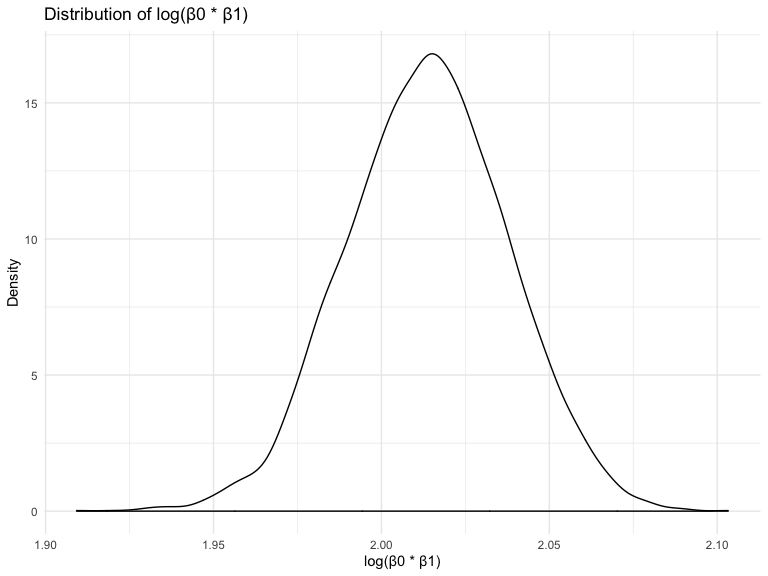
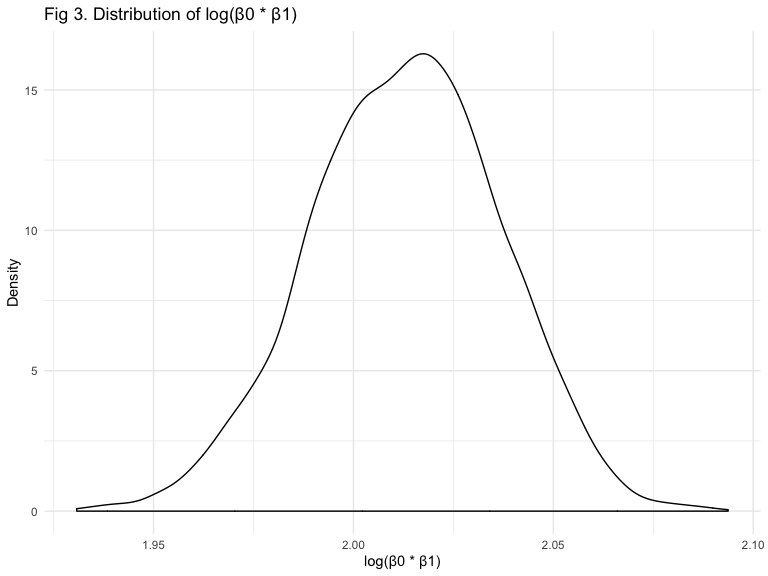
added comments

diff --git a/p8105_hw6_sc4636.md b/p8105_hw6_sc4636.md
@@ -47,6 +47,7 @@ conclusion, 6 predictors are used in model 1 to predict baby’s
 birthweight.
 
 ``` r
+set.seed(37)
 cv_bwt = crossv_mc(bwt, nrow(bwt))
 
 cv_bwt = 
@@ -112,6 +113,7 @@ weather_df =
     ## file min/max dates: 1869-01-01 / 2019-09-30
 
 ``` r
+set.seed(37)
 boot = weather_df %>% 
   bootstrap(n = 5000) %>% 
   mutate(
@@ -130,7 +132,7 @@ boot = weather_df %>%
 boot %>% ggplot(aes(x = log)) + 
   geom_density() +
   labs(
-    title = "Distribution of log(β0 * β1)",
+    title = "Fig 3. Distribution of log(β0 * β1)",
     x = "log(β0 * β1)",
     y = "Density"
   )
@@ -142,7 +144,7 @@ boot %>% ggplot(aes(x = log)) +
 boot %>% ggplot(aes(x = r.squared)) + 
   geom_density() +
   labs(
-    title = "Distribution of r squared",
+    title = "Fig 4. Distribution of r squared",
     x = "r squared",
     y = "Density"
   )
@@ -150,7 +152,11 @@ boot %>% ggplot(aes(x = r.squared)) +
 
 <img src="p8105_hw6_sc4636_files/figure-gfm/bootstraping-2.png" width="90%" />
 
-Both log(β0 \* β1) and r squared are likely to be normally distributed.
+According to figure 3 and 4, both log(β0 \* β1) and r squared are likely
+to be normally distributed. Sampling distribution of log(β0 \* β1) has a
+mean of 2.0130305 and standard deviation of 0.0237915. Sampling
+distribution of r squared has a mean of 0.9113032 and standard deviation
+of 0.0085833.
 
 ``` r
 boot %>% summarize(
@@ -164,8 +170,8 @@ boot %>% summarize(
     ## # A tibble: 1 x 4
     ##   r_sq_025 r_sq_975 log_025 log_975
     ##      <dbl>    <dbl>   <dbl>   <dbl>
-    ## 1    0.893    0.927    1.97    2.06
+    ## 1    0.894    0.927    1.97    2.06
 
-  - 95% confidence interval for r square is 0.8933188 - 0.9272067.
+  - 95% confidence interval for r square is 0.8935637 - 0.9270317.
 
-  - 95% confidence interval for log(β0 \* β1) is 1.9673429 - 2.0600507.
+  - 95% confidence interval for log(β0 \* β1) is 1.9653407 - 2.0575089.
